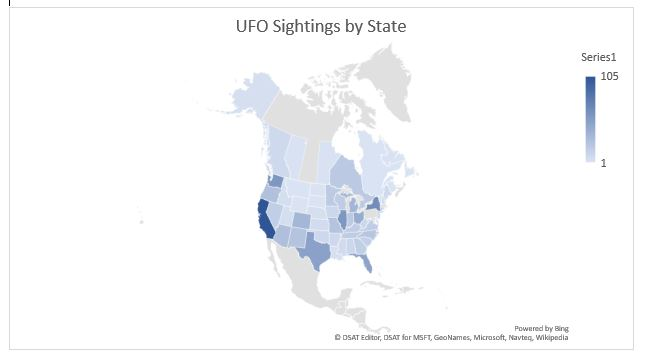
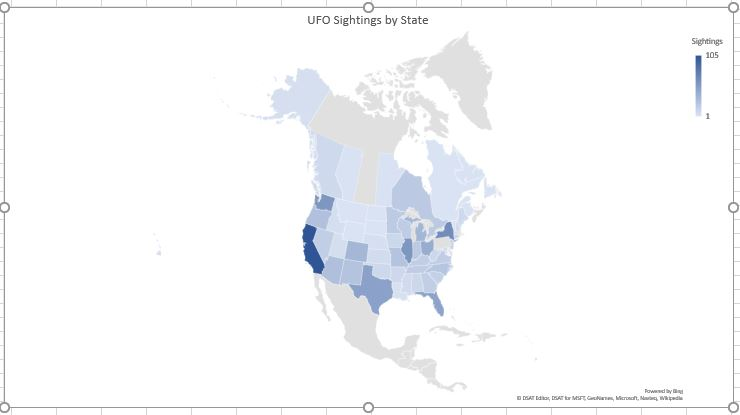
Changed the picture of the chart and README.md

diff --git a/README.md b/README.md
@@ -86,5 +86,5 @@ Issue Tracker: [https://bitbucket.org/mwoolery/ufo-sightings-from-the-last-centu
 
 ![Count By Year](pictures/CountByYearGraph.png)
 
-[Count By State](https://bitbucket.org/mwoolery/ufo-sightings-from-the-last-century/src/f1b244e0a8f78cf6a82742033d9e4b0a6b1dc0f6/pictures/count_by_state.JPG)
+[Count By State](pictures/count_by_state.jpg)
 		  
